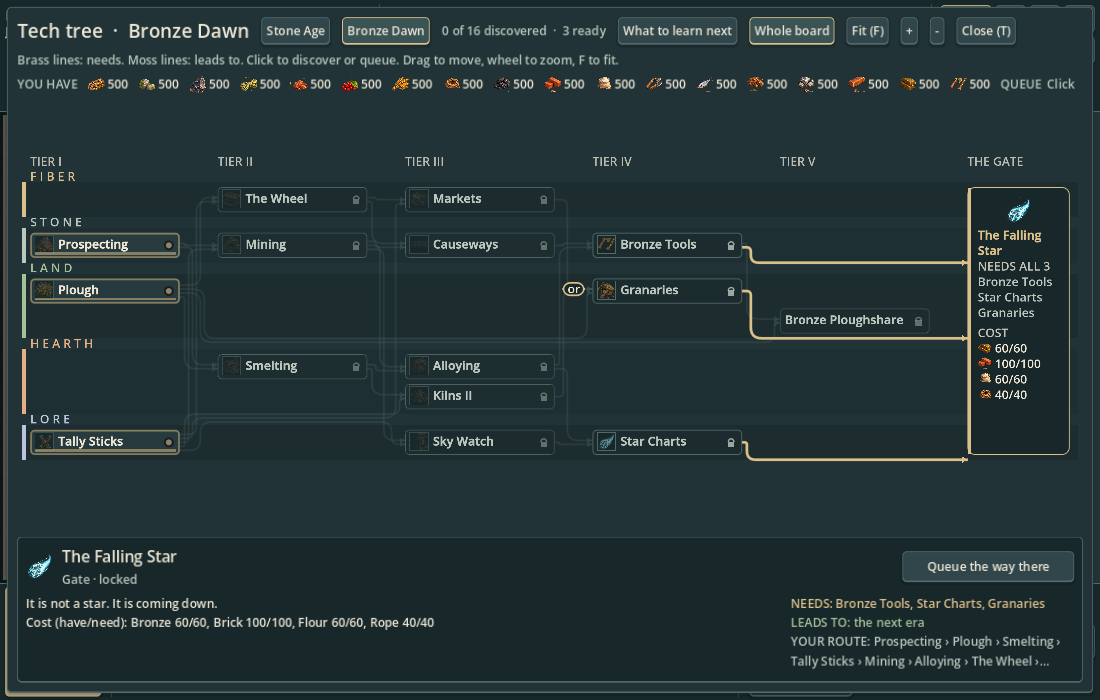
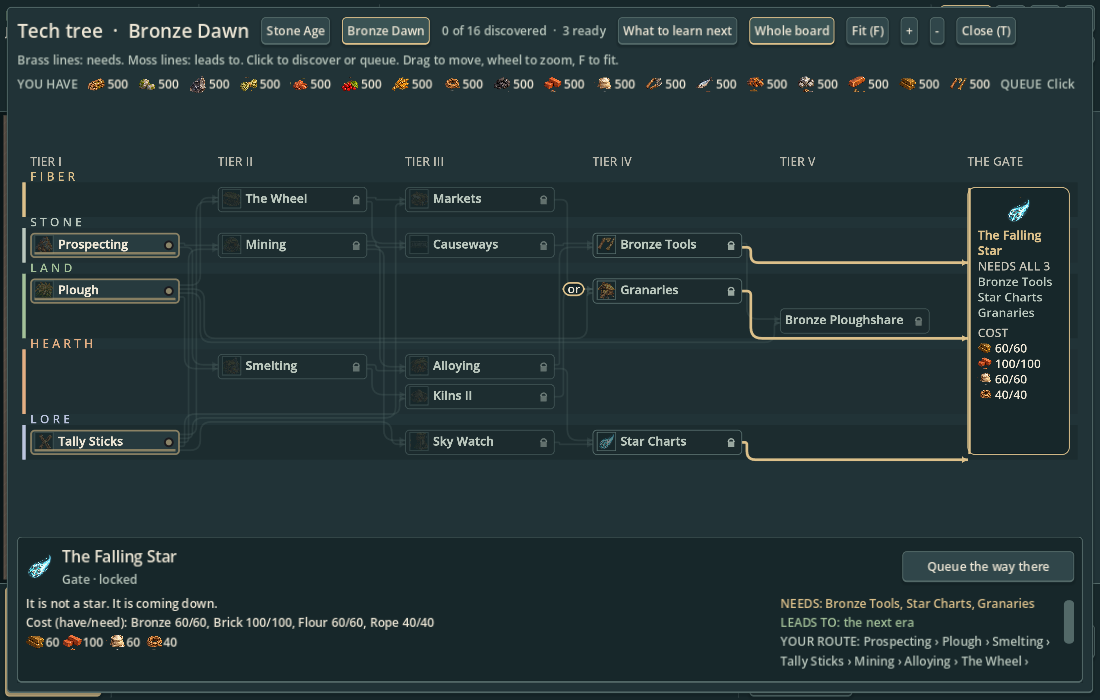
Show research material symbols and preserve inspector height

Changed region(s): [[0.7109, 0.84, 0.9891, 0.96], [0.0309, 0.9, 0.1545, 0.93]]

diff --git a/docs/art/requests.md b/docs/art/requests.md
@@ -1,6 +1,7 @@
 # Art requests
 
 ## Codex visual implementation (art and engine wiring)
+- [x] Research cost symbols and hover identification (Codex, 2026-10-05; PR #33): inspector shows material illustrations for the actual research price or next rank; hover shows resource name and have/need counts. Shared item illustrations identify themselves on hover. Fixed-height inspector scrolls long details without moving the board.
 - [x] Research-board readability (Codex, 2026-10-05; PR #33): persistent clicked focus, brass prerequisite/moss unlock paths, name-first compact cards, wrapped gate titles, full-name/detail tooltips and grouped inspector. Changes limited to TechBoard/TechPanel presentation and regression checks; existing research inputs/rules/prices/queue/save unchanged. Review [actual selected-tech previews](../design-system/mockups/miniature-interface.md#research-readability-and-persistent-focus-2026-10-05).
 - [x] Whole-interface theme audit (Codex, 2026-10-05; PR #33): miniature research illustrations throughout both eras/views; shared brass actions, charcoal icon frames/scrollbars, muted lane colors, milestone and notification styling. Touched presentation portions of Art/Rendered/Ui, BuildBar, TechBoard/TechPanel/TechNextView, EraCard and ToastStack plus UI checks. No research, simulation or save-rule changes. See [interface specification and actual captures](../design-system/mockups/miniature-interface.md). Terrain remains on visual review hold.
 - [x] Rendered miniature pipeline (Codex, 2026-10-04; PR #33): integrated transparent atlases, all map resource families, core buildings/workshops/industry, 18 item icons and fixed-anchor walking Kith in Godot. See [engine integration and real captures](overhaul/misty-highlands/engine/README.md). Existing IDs, footprints and 48 px default remain; Godot generated import metadata. No simulation/save changes.
@@ -9,6 +10,10 @@
 
 ## Codex -> Claude (gameplay, save/schema or CI/release work; shared-file coordination)
 Visual engine wiring is owned by Codex under the updated [handoff](../HANDOFF.md).
+
+- [ ] **Reveal technologies after hand discovery (Jon, 2026-10-05):** Hide a technology until its associated resource has been discovered by gathering it by hand. Jon wants discovery to expose the relevant branch rather than showing everything in advance. Claude to define each technology's discovery resource and the meaning of discovered (first harvest versus existing teaching threshold), including crafted goods, resource-free upgrades, gates, either-or prerequisites, and save migration. Acceptance: an unseen resource cannot leak its technologies through cards, suggested discoveries, routes or tooltips; hand discovery reveals the relevant branch; unlocks persist across reload. Keep prerequisite, affordability and research states distinct. Do not silently implement this as an art filter.
+- [ ] **One-click Gatherer's Hut dispatch/delivery (Jon, 2026-10-05):** Before roads/runners, Jon reports needing three clicks on the hut to deliver a gathering trip. Make the common dispatch/delivery interaction work from one click, with visible feedback about the resulting order. Claude to reproduce the current click sequence and define behavior for idle, gathering, carrying and returning workers; avoid duplicate orders or dropping a bundle. Acceptance: one clear click performs the intended available trip/delivery action, repeat clicks do not duplicate it, existing road/runner automation still works, and selection/inspection remains available.
+- [ ] **Optional incremental Hearth improvements (Jon, 2026-10-05):** Show modest Hearth upgrades as non-building technologies are researched. Lower priority than discovery and hut interaction. Claude to agree a mapping from existing researched technologies/ranks to visual milestones; Codex can add staged props/fire/structure details afterward. Keep the 2×2 footprint, costs, capacity and game rules unchanged unless separately approved; derive the appearance from researched state rather than storing another progression value. This is an optional visual proposal, not a new upgrade mechanic or canon decision.
 
 - [ ] **Buildings connect roads through their occupied cells (Jon, 2026-10-05):** A road entering one side of a building should continue to a road on another side, joining the networks and permitting through travel rather than making the building only a destination. Current placement rejects building/road overlap (`buildings.gd:placement_error`), road flood-fill joins road cells only, and road routing opens building cells only as route endpoints (`roads.gd`). Claude owns the gameplay portion: define building connector cells without changing existing footprints; make network connectivity and hauler/cart routing agree; preserve bridge/cart restrictions; define overlap cost, demolition and save/load behavior. Acceptance: `road → building → road` serves buildings beyond it and supports an actual through route; both horizontal and vertical connections work; demolition/rebuild and reload update connectivity consistently.
   - Codex visual treatment: continue local path material into an entrance apron and out through a visible courtyard/service passage, with shadows and occlusion supporting the approved miniature art. A solid hut wall should not appear to be the route. Only draw functional through connections once the network supports them. Include this in the next grounding preview.

diff --git a/docs/design-system/mockups/miniature-interface.md b/docs/design-system/mockups/miniature-interface.md
@@ -51,9 +51,11 @@ A clicked discovery now retains a distinct selected surface, brass selection rim
 
 Names take priority over pictures on compact board cards: hide a picture if it would force the name to truncate. The tall gate's destination wraps onto multiple lines. Every hovered visible card has a full-name tooltip. Extreme zoom can still trim a compact label; the inspector always separates its full name from state, lane and optional-branch context.
 
-The fixed-height inspector now places an illustration, full title/state and existing action in a header, with explanation/costs on the left and Needs/Leads to/route on the right. Long detail text has full-text tooltips. The last hover inspection remains available while moving to the action when no clicked selection exists; a clicked selection returns when hover ends. Existing card clicks still discover, queue or buy an upgrade. No research rules, prices, queue ordering or save state changed.
+The fixed-height inspector now places an illustration, full title/state and existing action in a header, with explanation/costs on the left and Needs/Leads to/route on the right. Long detail text scrolls inside the inspector and has full-text tooltips; it cannot expand the inspector and refit the board. The last hover inspection remains available while moving to the action when no clicked selection exists; a clicked selection returns when hover ends. Existing card clicks still discover, queue or buy an upgrade. No research rules, prices, queue ordering or save state changed.
 
 These actual Godot main-scene captures stage stock levels and selected cards for review; they are interface previews, not economy/balance playtest results.
 
 ![Selected Masonry with incoming and outgoing paths](../../art/overhaul/misty-highlands/interface/research-selection.png)
 ![Wrapped Falling Star destination and full-name inspector](../../art/overhaul/misty-highlands/interface/research-gate-selection.png)
+
+Research material symbols show the current research price (including discounts), or the next rank price for a researched upgrade. Hover identifies the resource and have/need amounts; shortage color supports the numeric comparison. Item illustrations elsewhere also identify their resource on hover.

diff --git a/docs/design-system/decision-log.md b/docs/design-system/decision-log.md
@@ -495,5 +495,10 @@ Stage 2 of 2: the nine gated techs now do something, the gate is gone, and the e
 - Codex followed Jon's request for the tech-tree readability pass. Preserve card activation and progression rules while improving presentation.
 - Keep clicked discovery focus after hover ends; use brass for incoming dependencies and moss for outgoing unlocks. Context remains immediate neighbours, with existing either-or labels. Era changes clear focus.
 - Give names priority over card pictures, retain opaque 14 px minimum labels, wrap gate destinations and provide full-name tooltips.
-- Reorganize the fixed-height inspector around a separate illustration/name/state/action header and grouped explanation/costs versus dependencies/route. Long details expose full-text tooltips.
+- Reorganize the fixed-height inspector around a separate illustration/name/state/action header and grouped explanation/costs versus dependencies/route. Long details scroll inside the inspector and expose full-text tooltips; they cannot resize the board.
 - Verify that inspection changes no resources, research or queue; retain actual Godot previews and exercise fitted layouts and existing discover/queue/upgrade input. Terrain remains on visual review hold.
+
+## 2026-10-05: Research materials identify themselves (PR #33)
+- Codex added material illustrations beside the selected technology's actual discounted research price or next-rank price; hover identifies the resource and available/required amounts.
+- Shared item illustrations carry resource-name tooltips. Long research details scroll within the fixed-height inspector so the board does not shift.
+- Jon's discovery-gating and hut interaction requests are queued for Claude. Optional Hearth visual milestones remain a proposal until the technology-to-appearance mapping is agreed.

diff --git a/docs/HANDOFF.md b/docs/HANDOFF.md
@@ -40,3 +40,6 @@ Install Godot 4.7 (standard, not .NET), import `project.godot`, press F5. Window
 - Current overhaul: grounded, atmospheric rendered miniatures with warm timber/thatch, sculpted stone and cool natural surroundings. Preserve readable silhouettes and the 48 px baseline. Original SVG/vector outline rules below the art-direction overhaul section are historical compatibility guidance.
 - Current interface: charcoal green, ivory labels, restrained brass actions, moss success and ember shortfalls. Use `scripts/ui.gd` tokens and the [miniature interface specification](design-system/mockups/miniature-interface.md), including miniature research illustrations. Cocoa-and-cream is the historical baseline. Faction identities remain Kith warm orange/red/iron, Lumen pale gold/cyan, Bloom magenta/sickly green.
 - Full detail: `docs/design-system/05-art-direction.md`, `docs/design-system/mockups/look-and-scale.md`.
+
+## Jon's follow-up requests — 2026-10-05
+Research material symbols and resource-name hover labels are part of Codex's current UI pass. Gameplay requests are queued in [art requests](art/requests.md): reveal technologies after hand discovery of their resource and simplify the Gatherer's Hut dispatch/delivery interaction to one click before roads/runners. Optional Hearth improvements should visually reflect existing non-building research after a milestone mapping is agreed. Claude owns progression and order behavior; Codex supplies presentation. Clarifications listed in the queue are implementation decisions for Claude, not approvals already granted for a particular new rule.
